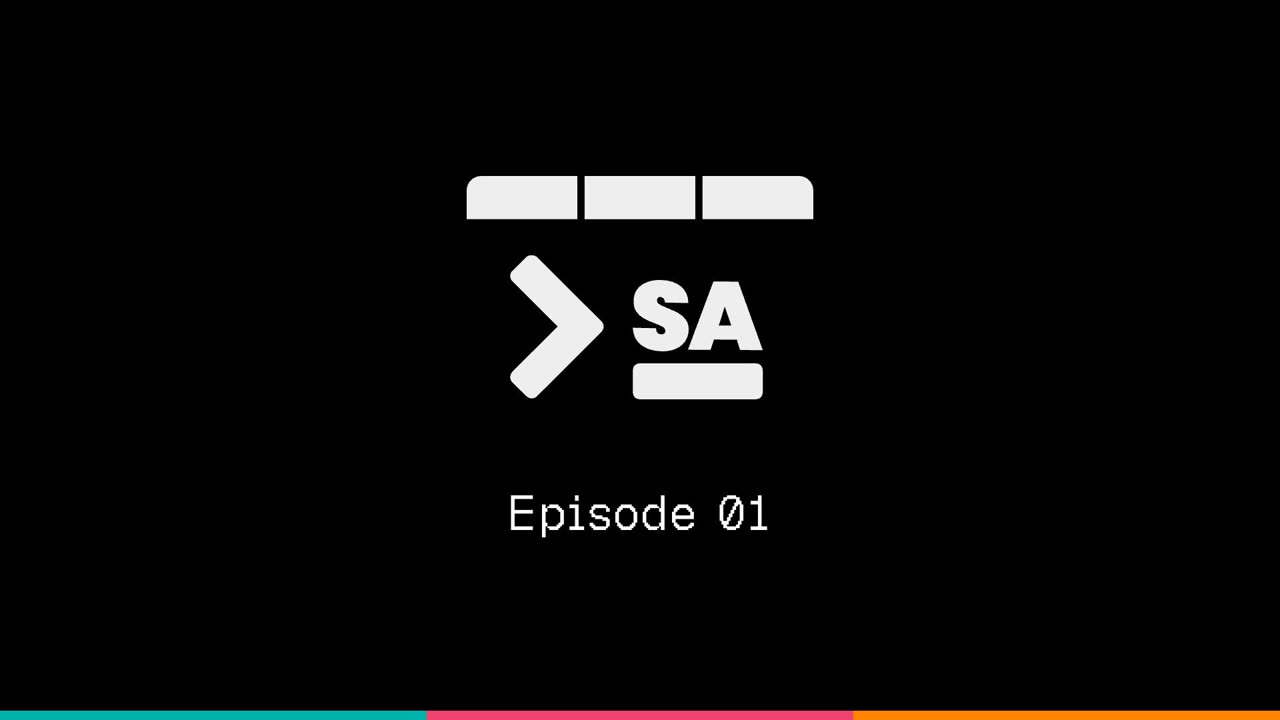
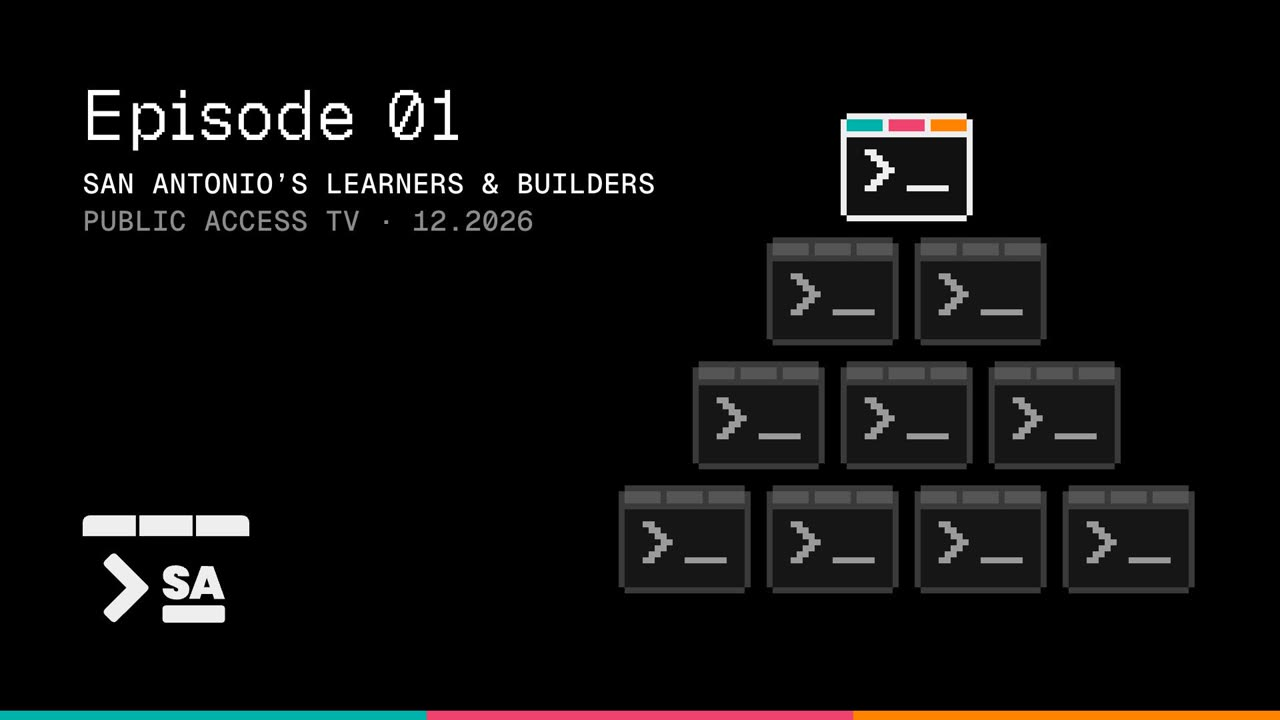
Introduce DEVSA a thing at a time, in its own graphics
The opening was written for people who already knew DEVSA. Slide 2 carried a paragraph that was really the next slide, and the next slide put the calendar, the directory, the channel and the rooms in four small cards of text, for an audience seeing DEVSA for the first time.

Now the line under the network is gone, "How it started" follows it, and "Find your people" is a title card that names the four, with the HELLO MY NAME IS BUILDER sticker. Each then gets a page with the real thing beside it: the calendar and the directory as they look on devsa.community (the directory cropped to the community groups, so no partner logo appears that isn't cleared for TV), and the Monday post the Discord gets. The bill of conferences is the fourth.

The opener is the DEVSA TV ship card, its pyramid of pixel windows built on screen with the top one lit last. December's ornament and the I >_ SATX sticker sit on the last two slides, and December now lists all five groups' events, from the calendar as of November 15.

Changed region(s): [[0.0625, 0.1528, 0.9375, 0.825], [0.0625, 0.1222, 0.375, 0.2139], [0.0625, 0.7028, 0.2188, 0.8861]]

diff --git a/public/slides/devsa-tv-ep1-nov18/index.html b/public/slides/devsa-tv-ep1-nov18/index.html
@@ -105,8 +105,26 @@ body:not(.idle) #hud{opacity:1}
 .fg{position:relative;z-index:2}
 
 /* opener */
-.opener{position:absolute;inset:0;display:flex;flex-direction:column;align-items:center;justify-content:center;gap:70px}
-.opener img{width:520px}
+.pyr{position:absolute;inset:0;width:100%;height:100%}
+.op-meta{position:absolute;left:124px;top:116px;font-family:"Geist Mono",monospace;font-weight:500;font-size:42px;line-height:1.32;text-transform:uppercase;letter-spacing:.02em}
+.op-meta .pixel{text-transform:none;line-height:1.1;margin-bottom:18px}
+.op-meta .dim{color:rgba(255,255,255,.55)}
+.op-mark{position:absolute;left:124px;bottom:120px;width:250px}
+/* the four things, a page each: words left, the real thing right */
+.does-copy{position:absolute;left:140px;top:250px;width:700px}
+.does-copy .h2{font-size:100px;margin-top:30px}
+.does-copy .lede{margin-top:44px;font-size:38px}
+.does-copy .url{margin-top:44px;font-family:"Geist Mono",monospace;font-weight:700;font-size:32px;letter-spacing:.02em;color:var(--c,var(--teal))}
+.shot{position:absolute;left:920px;top:150px;width:880px;border-radius:18px;overflow:hidden;border:1px solid #2c2c2c;background:#fff;box-shadow:0 40px 90px rgba(0,0,0,.6)}
+.shot .bar{display:flex;align-items:center;gap:10px;height:46px;padding:0 18px;background:#161616;border-bottom:1px solid #2c2c2c}
+.shot .bar i{width:13px;height:13px;border-radius:50%;background:#3a3a3a}
+.shot .bar span{margin-left:14px;font-family:"Geist Mono",monospace;font-size:20px;color:rgba(255,255,255,.6)}
+.shot img{display:block;width:100%}
+.post{position:absolute;left:1080px;top:110px;height:860px;border-radius:18px;border:1px solid #2c2c2c;box-shadow:0 40px 90px rgba(0,0,0,.6)}
+.chapters{display:grid;grid-template-columns:repeat(4,1fr);gap:40px;margin-top:110px;padding-top:40px;border-top:2px solid #262626}
+.chapters span{display:block;font-family:"Geist Mono",monospace;font-size:28px;color:var(--c)}
+.chapters b{display:block;margin-top:12px;font-size:56px;font-weight:900;letter-spacing:-.015em}
+.stk{position:absolute;filter:drop-shadow(0 18px 24px rgba(0,0,0,.6))}
 .pixel{font-family:"Geist Pixel",monospace;font-size:72px;color:#fff;letter-spacing:.04em}
 
 /* what DEVSA gives */
@@ -248,12 +266,16 @@ body:not(.idle) #hud{opacity:1}
 <div id="stage">
   <img id="mark" src="assets/marks/devsa-alt-logo.svg" alt="DEVSA">
 
-  <!-- 0 · Opener: the mark, and the episode. (The desk TV carries the stickers.) -->
-  <section class="slide" data-mark="off">
-    <div class="opener">
-      <img class="in" src="assets/marks/devsa-alt-logo.svg" alt="DEVSA" style="--i:0">
-      <span class="pixel in" style="--i:1">Episode 01</span>
+  <!-- 0 · Opener: the DEVSA TV ship-style card (~/Downloads/devsa-tv-graphics/ship-style): a pyramid of pixel windows,
+       each the DEVSA mark in pixels, built row by row with the top one lit in the brand colors last. -->
+  <section class="slide" data-mark="off" id="opener">
+    <canvas class="pyr" id="pyr" width="1920" height="1080"></canvas>
+    <div class="op-meta">
+      <p class="pixel in" style="--i:0;font-size:104px">Episode 01</p>
+      <p class="in" style="--i:1">San Antonio&rsquo;s learners &amp; builders</p>
+      <p class="in dim" style="--i:2">Public access TV &middot; 12.2026</p>
     </div>
+    <img class="op-mark in" style="--i:3" src="assets/marks/devsa-alt-logo.svg" alt="DEVSA">
   </section>
 
   <!-- ===================== Meet DEVSA, in DEVSA's own words ===================== -->
@@ -273,24 +295,9 @@ body:not(.idle) #hud{opacity:1}
        directory, each linked to DEVSA. After slide 1's builder on her own, this is what connects them. -->
   <section class="slide" id="netSlide">
     <div class="netbox in" style="--i:2" aria-hidden="true"><div id="net"></div></div>
-    <div class="pad" style="top:200px;right:auto;width:820px">
+    <div class="pad" style="top:270px;right:auto;width:820px">
       <p class="eyebrow in" style="--i:0">This is DEVSA</p>
-      <h2 class="h2 in" style="--i:1;margin-top:30px;font-size:96px">Community infrastructure <span class="mute">for San Antonio&rsquo;s learners and builders.</span></h2>
-      <p class="lede in" style="--i:2;margin-top:50px;font-size:38px">A shared calendar every group publishes to, a public directory anyone can search, one channel to follow, and a few rooms a year where all of it meets.</p>
-    </div>
-  </section>
-
-  <!-- 3 · The four things -->
-  <section class="slide">
-    <div class="pad" style="top:250px">
-      <p class="eyebrow in" style="--i:0">What DEVSA does</p>
-      <h2 class="h2 in" style="--i:1;margin-top:30px">Find your people. <span class="mute">Build your future.</span></h2>
-      <div class="cardgrid in" style="--i:2;margin-top:70px">
-        <div class="card" style="--c:var(--teal)"><span class="n">01</span><h3>The calendar</h3><p>Every group publishes to it.</p></div>
-        <div class="card" style="--c:var(--pink)"><span class="n">02</span><h3>The directory</h3><p>Public. Anyone can search it.</p></div>
-        <div class="card" style="--c:var(--orange)"><span class="n">03</span><h3>The channel</h3><p>One to follow, for the groups that have none of their own.</p></div>
-        <div class="card" style="--c:var(--teal)"><span class="n">04</span><h3>The rooms</h3><p>A few a year, where all of it meets.</p></div>
-      </div>
+      <h2 class="h2 in" style="--i:1;margin-top:30px;font-size:112px">Community infrastructure <span class="mute">for San Antonio&rsquo;s learners and builders.</span></h2>
     </div>
   </section>
 
@@ -315,12 +322,65 @@ body:not(.idle) #hud{opacity:1}
     </div>
   </section>
 
+
+
+  <!-- What DEVSA does: a title card, then a page each (the rooms are the bill that follows) -->
+  <section class="slide">
+    <img class="stk in" src="assets/stickers/hello.webp" alt="" style="--i:2;right:130px;top:56px;width:440px;transform:rotate(-6deg)">
+    <div class="pad" style="top:300px">
+      <p class="eyebrow in" style="--i:0">What DEVSA does</p>
+      <h2 class="h2 in" style="--i:1;margin-top:30px;font-size:136px">Find your people. <span class="mute">Build your future.</span></h2>
+      <div class="chapters in" style="--i:3">
+        <div style="--c:var(--teal)"><span>01</span><b>The calendar</b></div>
+        <div style="--c:var(--pink)"><span>02</span><b>The directory</b></div>
+        <div style="--c:var(--orange)"><span>03</span><b>The channel</b></div>
+        <div style="--c:var(--teal)"><span>04</span><b>The rooms</b></div>
+      </div>
+    </div>
+  </section>
+
+  <!-- 01 · The calendar: devsa.community/events as it looked on Nov 15 (December's meetups, the month view) -->
+  <section class="slide">
+    <div class="does-copy" style="--c:var(--teal)">
+      <p class="eyebrow in" style="--i:0">01 &middot; <b>The calendar</b></p>
+      <h2 class="h2 in" style="--i:1">Every group. <span class="mute">One calendar.</span></h2>
+      <!-- the calendar page's own line -->
+      <p class="lede in" style="--i:2">Python, Linux, .NET, AI, game dev, design, data, security, cloud. All 27 groups publish here.</p>
+      <p class="url in" style="--i:3">devsa.community/events</p>
+    </div>
+    <div class="shot in" style="--i:2"><div class="bar"><i></i><i></i><i></i><span>devsa.community/events</span></div><img src="assets/does/calendar.webp" alt="DEVSA's community calendar"></div>
+  </section>
+
+  <!-- 02 · The directory: Building Together's grid, the community groups' rows only (the partner rows below carry
+       logos, TVSA's among them, that aren't cleared for TV) -->
+  <section class="slide">
+    <div class="does-copy" style="--c:var(--pink)">
+      <p class="eyebrow in" style="--i:0">02 &middot; <b>The directory</b></p>
+      <h2 class="h2 in" style="--i:1">Every group, <span class="mute">in one place.</span></h2>
+      <!-- Building Together's own line -->
+      <p class="lede in" style="--i:2">Open any logo for what they do, when they meet, and how to join.</p>
+      <p class="url in" style="--i:3">devsa.community/buildingtogether</p>
+    </div>
+    <div class="shot in" style="--i:2;top:200px"><div class="bar"><i></i><i></i><i></i><span>devsa.community/buildingtogether</span></div><img src="assets/does/directory.webp" alt="DEVSA's directory of community groups"></div>
+  </section>
+
+  <!-- 03 · The channel: the Monday post DEVSA's Discord gets in #community-calendar (/api/og/week/social, the week of Nov 16) -->
+  <section class="slide">
+    <div class="does-copy" style="--c:var(--orange);width:820px">
+      <p class="eyebrow in" style="--i:0">03 &middot; <b>The channel</b></p>
+      <h2 class="h2 in" style="--i:1">One channel <span class="mute">to follow.</span></h2>
+      <p class="lede in" style="--i:2">For the groups that have none of their own. Every Monday, DEVSA&rsquo;s Discord gets the week on the calendar.</p>
+      <p class="url in" style="--i:3">devsa.community/discord</p>
+    </div>
+    <img class="post in" style="--i:2" src="assets/does/channel.webp" alt="DEVSA's weekly calendar post">
+  </section>
+
   <!-- ===================== The rooms DEVSA runs: one slide per conference, in its own brand ===================== -->
 
   <!-- 5 · The bill -->
   <section class="slide">
     <div class="pad" style="top:250px">
-      <p class="eyebrow in" style="--i:0">The rooms</p>
+      <p class="eyebrow in" style="--i:0">04 &middot; <b>The rooms</b></p>
       <h2 class="h2 in" style="--i:1;margin-top:30px">A few rooms a year, <span class="mute">where all of it meets.</span></h2>
       <div class="bill in" style="--i:2">
         <img src="assets/conf/more-human-than-human-wordmark.svg" alt="More Human Than Human">
@@ -508,6 +568,7 @@ body:not(.idle) #hud{opacity:1}
   <!-- ===================== Your December ===================== -->
 
   <section class="slide">
+    <img class="stk in" src="assets/stickers/ornament.webp" alt="" style="--i:3;right:120px;top:36px;width:190px;transform:rotate(8deg)">
     <div class="pad" style="top:210px;left:110px;right:110px">
       <p class="eyebrow in" style="--i:0">On the community calendar</p>
       <h2 class="h2 in" style="--i:1;margin-top:30px">Your December, <span class="mute">on the calendar.</span></h2>
@@ -519,6 +580,7 @@ body:not(.idle) #hud{opacity:1}
   <!-- ===================== Close ===================== -->
 
   <section class="slide">
+    <img class="stk in" src="assets/stickers/love.webp" alt="I love SATX" style="--i:3;right:150px;top:70px;width:380px;transform:rotate(6deg)">
     <div class="pad" style="top:220px">
       <p class="eyebrow in" style="--i:0">Thanks for watching</p>
       <h2 class="h2 in" style="--i:1;margin-top:30px;font-size:124px">Find your people. <span class="mute">Build your future.</span></h2>
@@ -540,12 +602,12 @@ const CONFIG = {
   // Your December: one card per group, in this order. Events marked * are on the community calendar
   // (checked November 15, in San Antonio time). For the rest, add the event once the group posts it;
   // until then the card says it's coming to the calendar, rather than inventing a date.
-  december: [
-    { group: "Alamo City Locksport", logo: "g17-2026.png", title: "", when: "", where: "" },
-    { group: "ACM San Antonio", logo: "g5.png", title: "Confidential Computing Leveraging Bootable Containers", when: "Wed Dec 9 · 6 PM", where: "Geekdom" }, // *
-    { group: "Datanauts", logo: "g16.png", title: "Holiday Bash 2026", when: "Thu Dec 10 · 6:30 PM", where: "Little Woodrow's at Braun" }, // *
-    { group: "Geeks && {...}", logo: "g12.png", title: "", when: "", where: "" },
-    { group: "Google Developer Group", logo: "g11.png", title: "", when: "", where: "" },
+  december: [   // from devsa.community/events, Nov 15, in date order (times in San Antonio time)
+    { group: "Geeks && {...}", logo: "g12.png", title: "Geeks&&Drinks", when: "Tue Dec 1 · 6 PM", where: "Idle Beer Hall & Brewery" },
+    { group: "Alamo City Locksport", logo: "g17-2026.png", title: "December Meetup", when: "Sat Dec 5 · 7 PM", where: "Flying Saucer, Huebner Rd" },
+    { group: "ACM San Antonio", logo: "g5.png", title: "Confidential Computing Leveraging Bootable Containers", when: "Wed Dec 9 · 6 PM", where: "Geekdom" },
+    { group: "Datanauts", logo: "g16.png", title: "Holiday Bash 2026", when: "Thu Dec 10 · 6:30 PM", where: "Little Woodrow's at Braun" },
+    { group: "Google Developer Group", logo: "g11.png", title: "Christmas Build Jam", when: "Fri Dec 18 · 6 PM", where: "Geekdom" },
   ],
   // The groups wall: the directory's groups with a logo in assets/wall (November 15; ACM TAMUSA has no file yet).
   wall: ["g0.png", "g1.png", "g2.png", "g3.png", "g4.png", "g5.png", "g6.png", "g7.png", "g8.png", "g9.png", "g10.png", "g11.png", "g12.png",
@@ -558,6 +620,34 @@ const stage = $("#stage"), slides = $$(".slide")
 const esc = (t) => String(t).replace(/[&<>"]/g, (c) => ({ "&": "&amp;", "<": "&lt;", ">": "&gt;", '"': "&quot;" })[c])
 
 $("#wall").innerHTML = CONFIG.wall.map((w) => { const [f, flag] = w.split(":"); return `<div class="${flag || ""}"><img src="assets/wall/${esc(f)}" alt=""></div>` }).join("")
+// ---------- the opener's pyramid (ship-style): pixel windows, the DEVSA mark in each, the top one lit last ----------
+;(function pyramid() {
+  const c = $("#pyr"), sl = $("#opener"); if (!c) return
+  const g = c.getContext("2d"), TEAL = "#00b2a9", PINK = "#ef426f", ORANGE = "#ff8200"
+  function win(x, y, px, lit, a) {
+    const W = 22, H = 18
+    const frame = lit ? "#eeeeee" : "#3a3a3a", body = lit ? "#111" : "#161616", face = lit ? "#eeeeee" : "#9a9a9a"
+    const tabs = lit ? [TEAL, PINK, ORANGE] : ["#555", "#555", "#555"]
+    const P = (col, cx, cy, w = 1, h = 1) => { g.fillStyle = col; g.fillRect(x + cx * px, y + cy * px, w * px, h * px) }
+    g.globalAlpha = a
+    P(frame, 1, 0, W - 2, H); P(frame, 0, 1, W, H - 2); P(body, 1, 4, W - 2, H - 5)
+    P(tabs[0], 1, 1, 6, 2); P(tabs[1], 8, 1, 6, 2); P(tabs[2], 15, 1, 6, 2)
+    for (const [cx, cy] of [[4, 6], [5, 7], [6, 8], [7, 9], [6, 10], [5, 11], [4, 12]]) P(face, cx, cy, 2, 1)
+    P(face, 11, 12, 7, 1); g.globalAlpha = 1
+  }
+  const px = 9, w = 22 * px, h = 18 * px, gap = 24, cx = 1360, top = 170, wins = []
+  for (let r = 3; r >= 0; r--) { const n = r + 1, rowW = n * w + (n - 1) * gap; for (let i = 0; i < n; i++) wins.push([Math.round(cx - rowW / 2 + i * (w + gap)), top + r * (h + gap), r === 0]) }
+  let t0 = null
+  function draw(ms) {
+    if (t0 === null) t0 = ms
+    const t = ms - t0; g.clearRect(0, 0, 1920, 1080)
+    wins.forEach(([x, y, lit], k) => { const a = Math.max(0, Math.min(1, (t - 400 - k * 110 - (lit ? 350 : 0)) / 300)); if (a > 0) win(x, y, px, lit, a) })
+    if (t < 400 + wins.length * 110 + 700) requestAnimationFrame(draw)
+  }
+  const start = () => { t0 = null; requestAnimationFrame(draw) }
+  new MutationObserver(() => { if (sl.classList.contains("on")) start() }).observe(sl, { attributes: true, attributeFilter: ["class"] })
+  if (sl.classList.contains("on")) start()
+})()
 // ---------- the community network (the roundtable deck's geometry): CONFIG.wall's groups, each linked to DEVSA ----------
 ;(function network() {
   const host = $("#net"), slide = $("#netSlide"); if (!host) return

diff --git a/lib/slides.ts b/lib/slides.ts
@@ -37,7 +37,7 @@ export const DECKS: Deck[] = [
     summary: "DEVSA's first time on TV: DEVSA in its own words, its four conferences, the groups' 2026, and December on the calendar.",
     date: "2026-11-18",
     where: "TVSA studios",
-    slides: 23,
+    slides: 26,
     eventUrl: "/tv",
   },
   {
